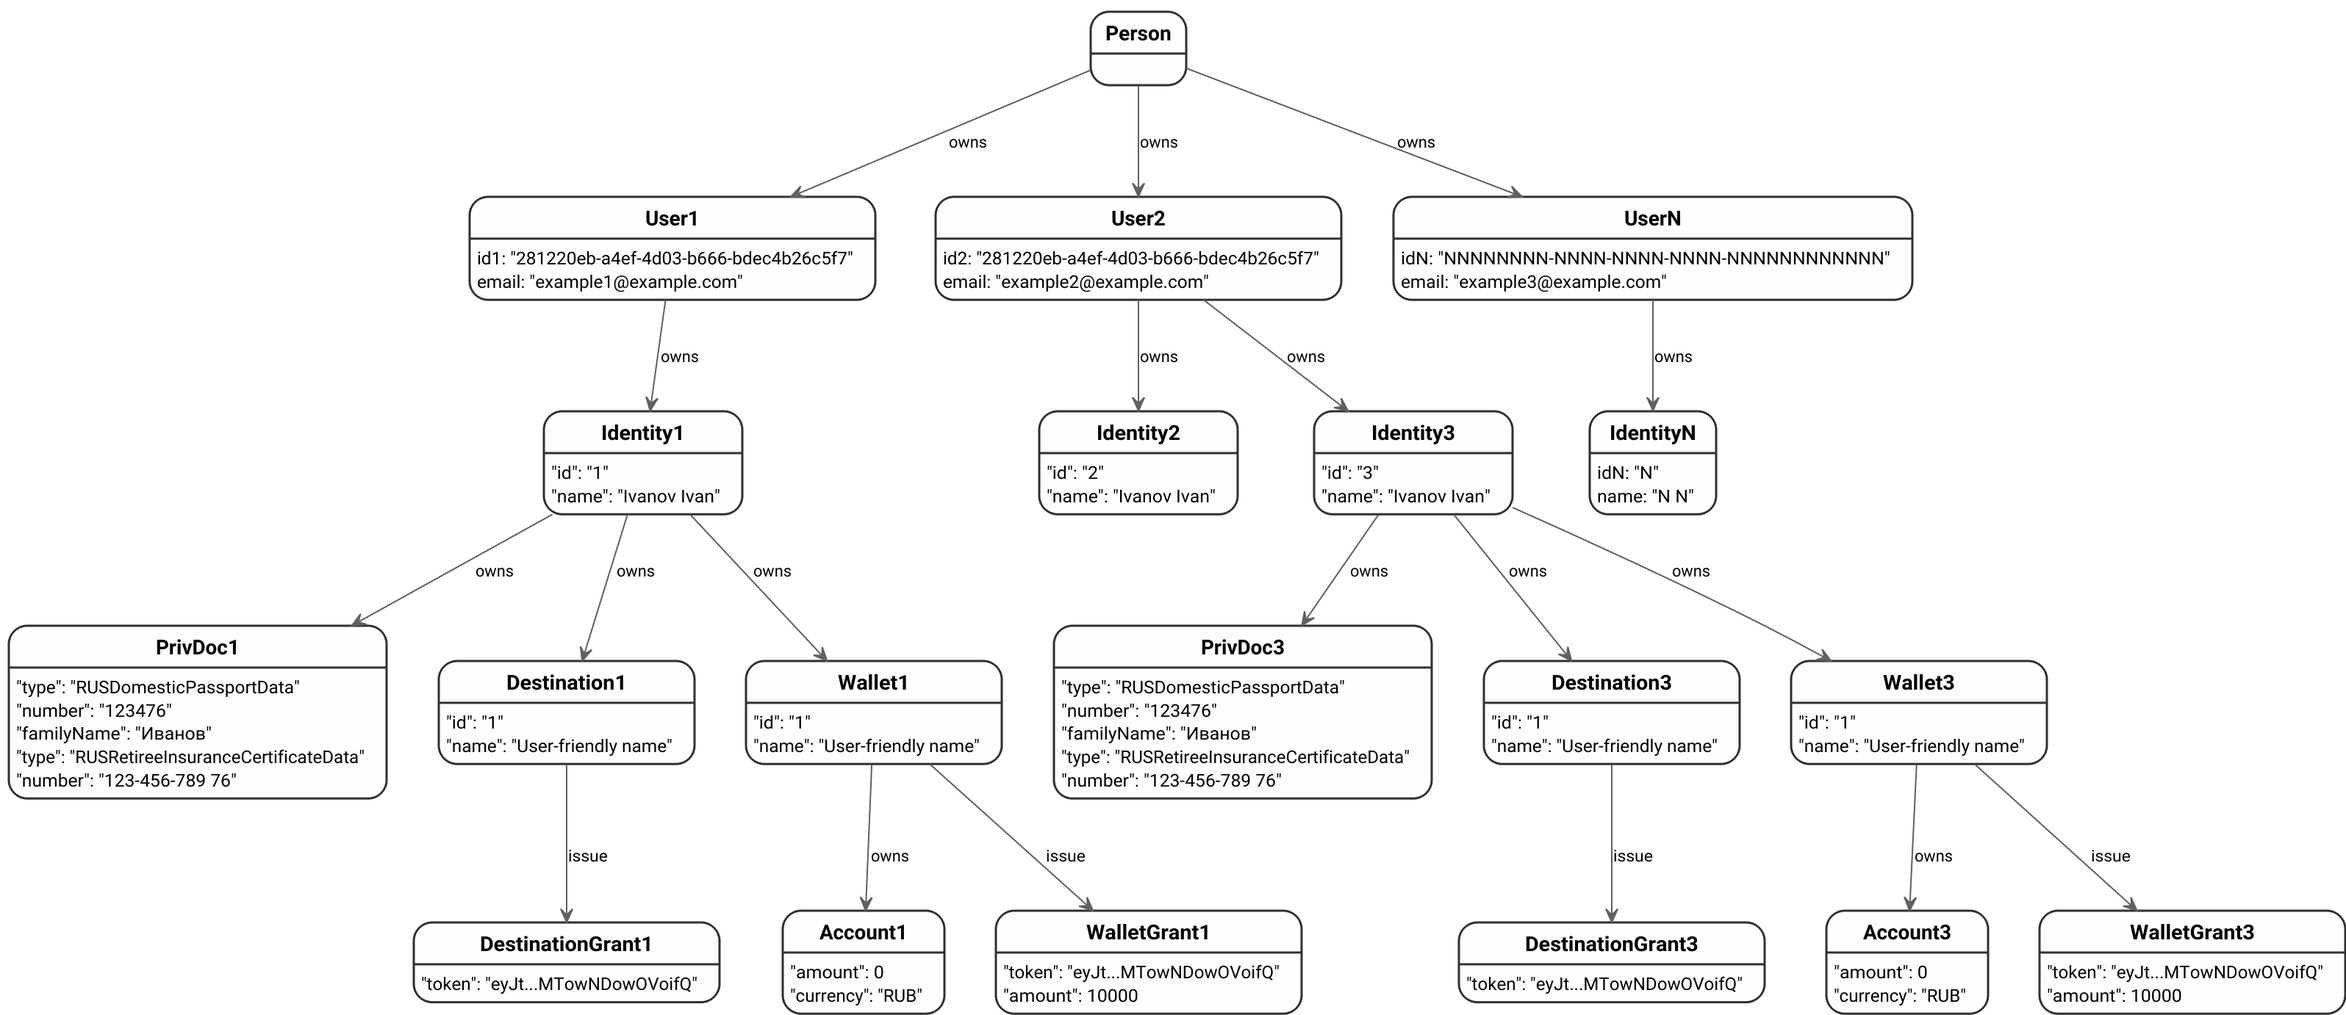
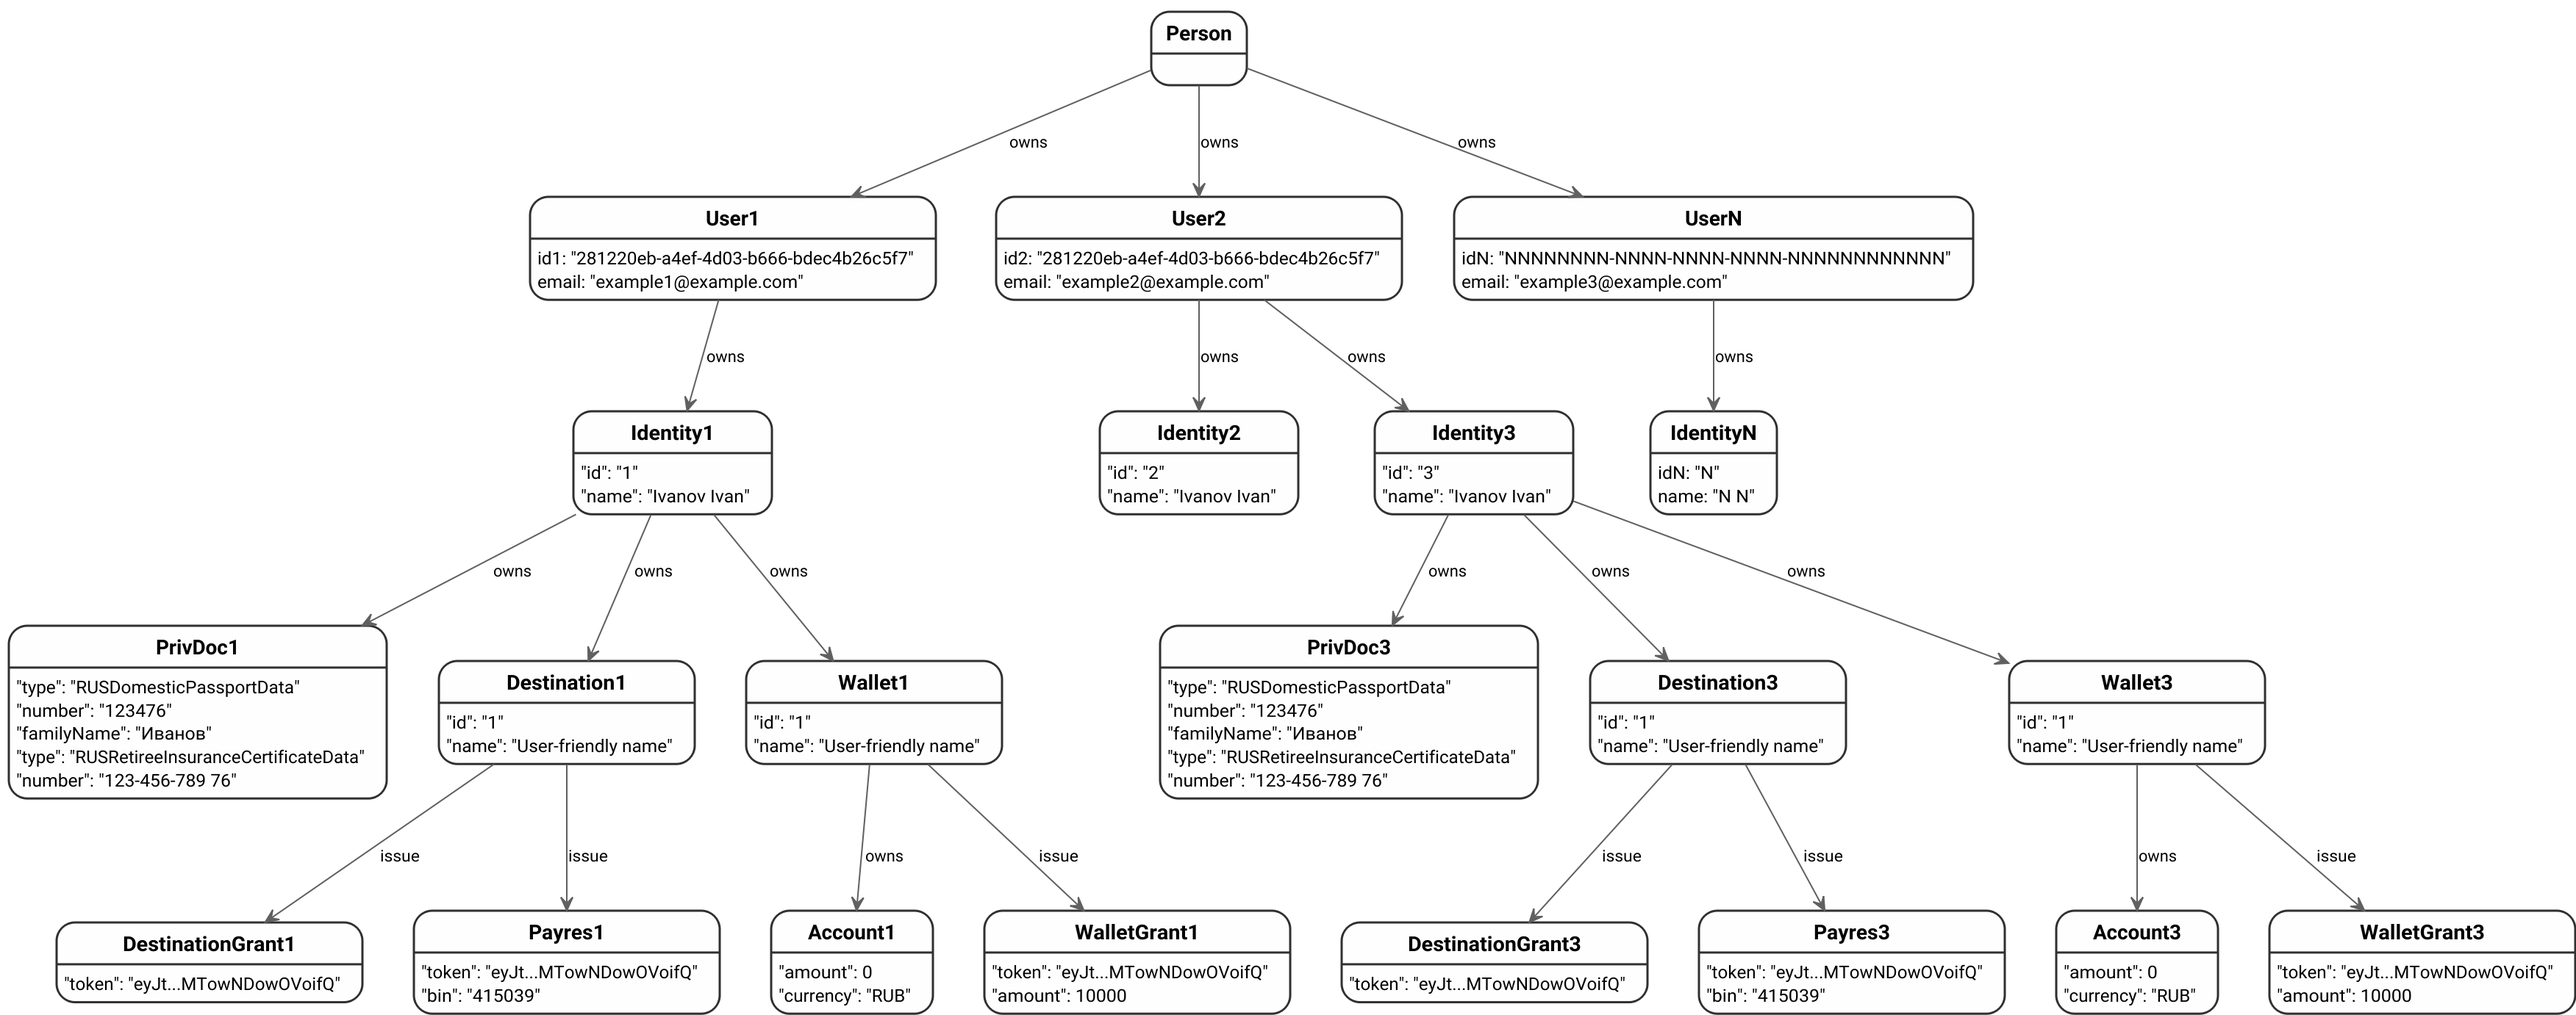
- added payres

diff --git a/content/wallets/overview.md b/content/wallets/overview.md
@@ -135,6 +135,22 @@ Identity, или идентификатор личности — это стру
 }
 ```
 
+###### Payment resource
+
+К Destination может быть привязано неограниченное количество средств вывода. Такими средствами могут быть, например, банковская карта, счет в банке, номер телефона или электронный кошелек другой системы. На момент написания статьи поддерживается только одно средство вывода - банковская карта.
+
+Структура средства вывода в виде банковской карты может выглядеть так:
+
+```json
+{
+    "authData": "50jPBQ22aP1Uvw4cr86iKT",
+    "bin": "415039",
+    "lastDigits": "0900",
+    "paymentSystem": "visa",
[1 lines of base64/hex data omitted]
+}
+```
+
 ##### Destination Grant
 
 Destination — это привязанный к Identity получатель выводимых денег, например привязанная владельцем банковская карта. Поскольку это ресурс, принадлежащий не вам, напрямую управлять этим ресурсом нельзя. Нужно запросить явно выраженное право на управление этим ресурсом. Для этого необходимо запросить Grant на управление Destination.

diff --git a/content/index.md b/content/index.md
@@ -34,7 +34,7 @@
     data-label="Pay with RBKmoney">
 </script>
 ```
-Более подробную информацию вы можете найти в разделе интеграции [checkout](/checkout).
+Более подробную информацию вы можете найти в разделе интеграции [checkout](/payments/checkout).
 
 ## Нужна помощь?
 
